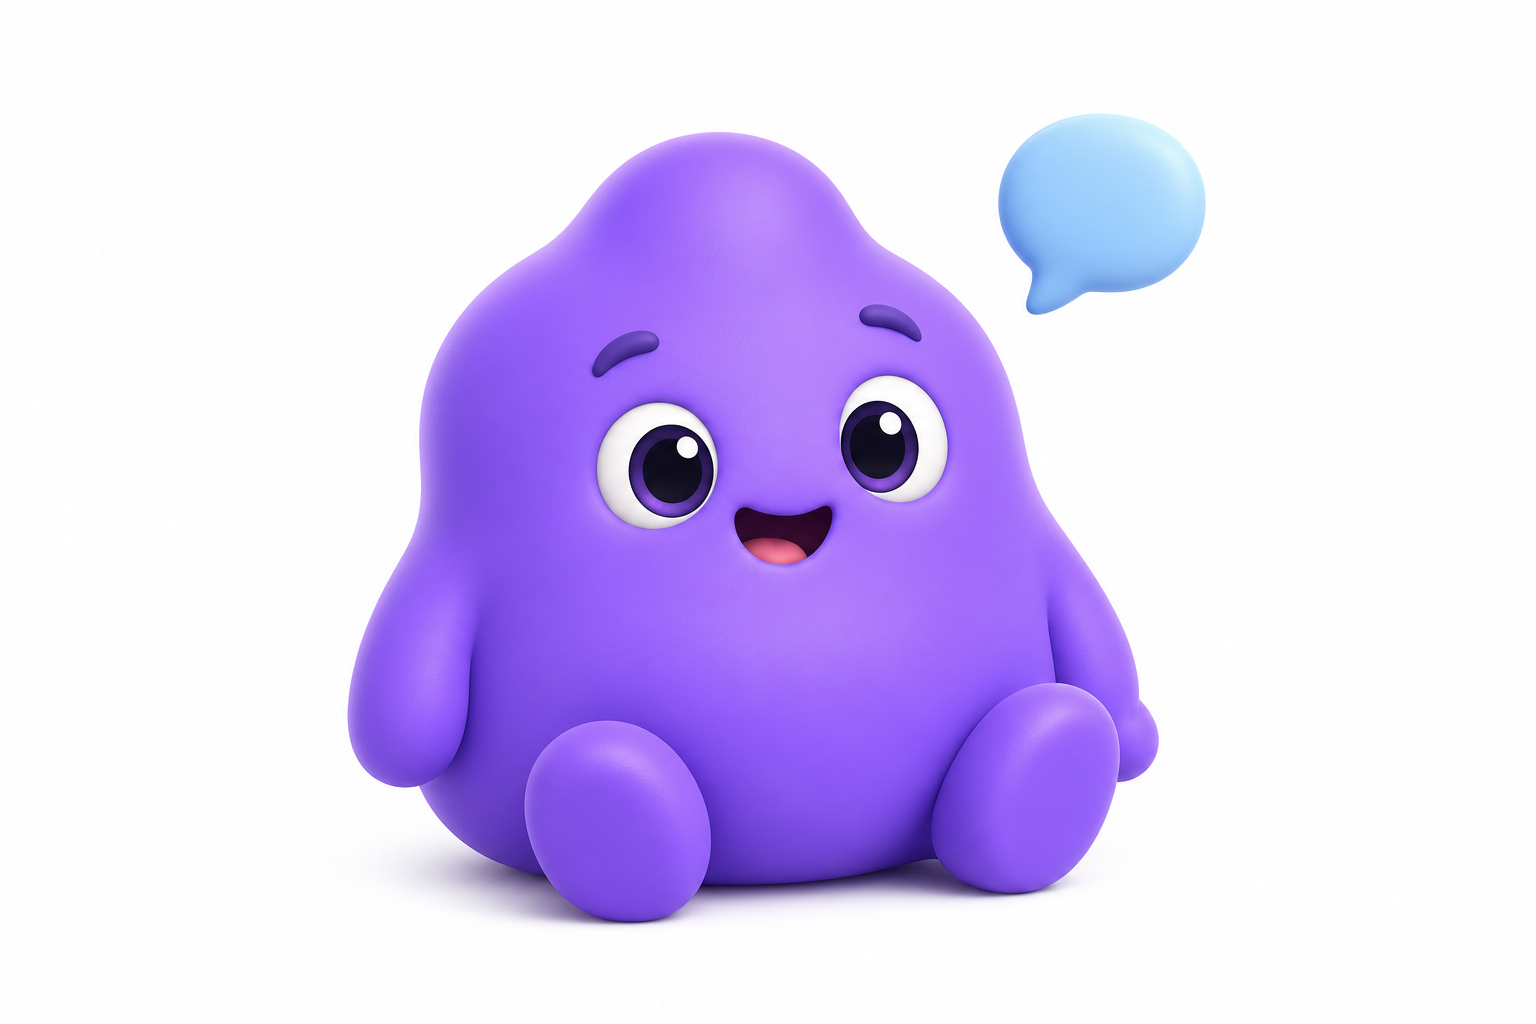
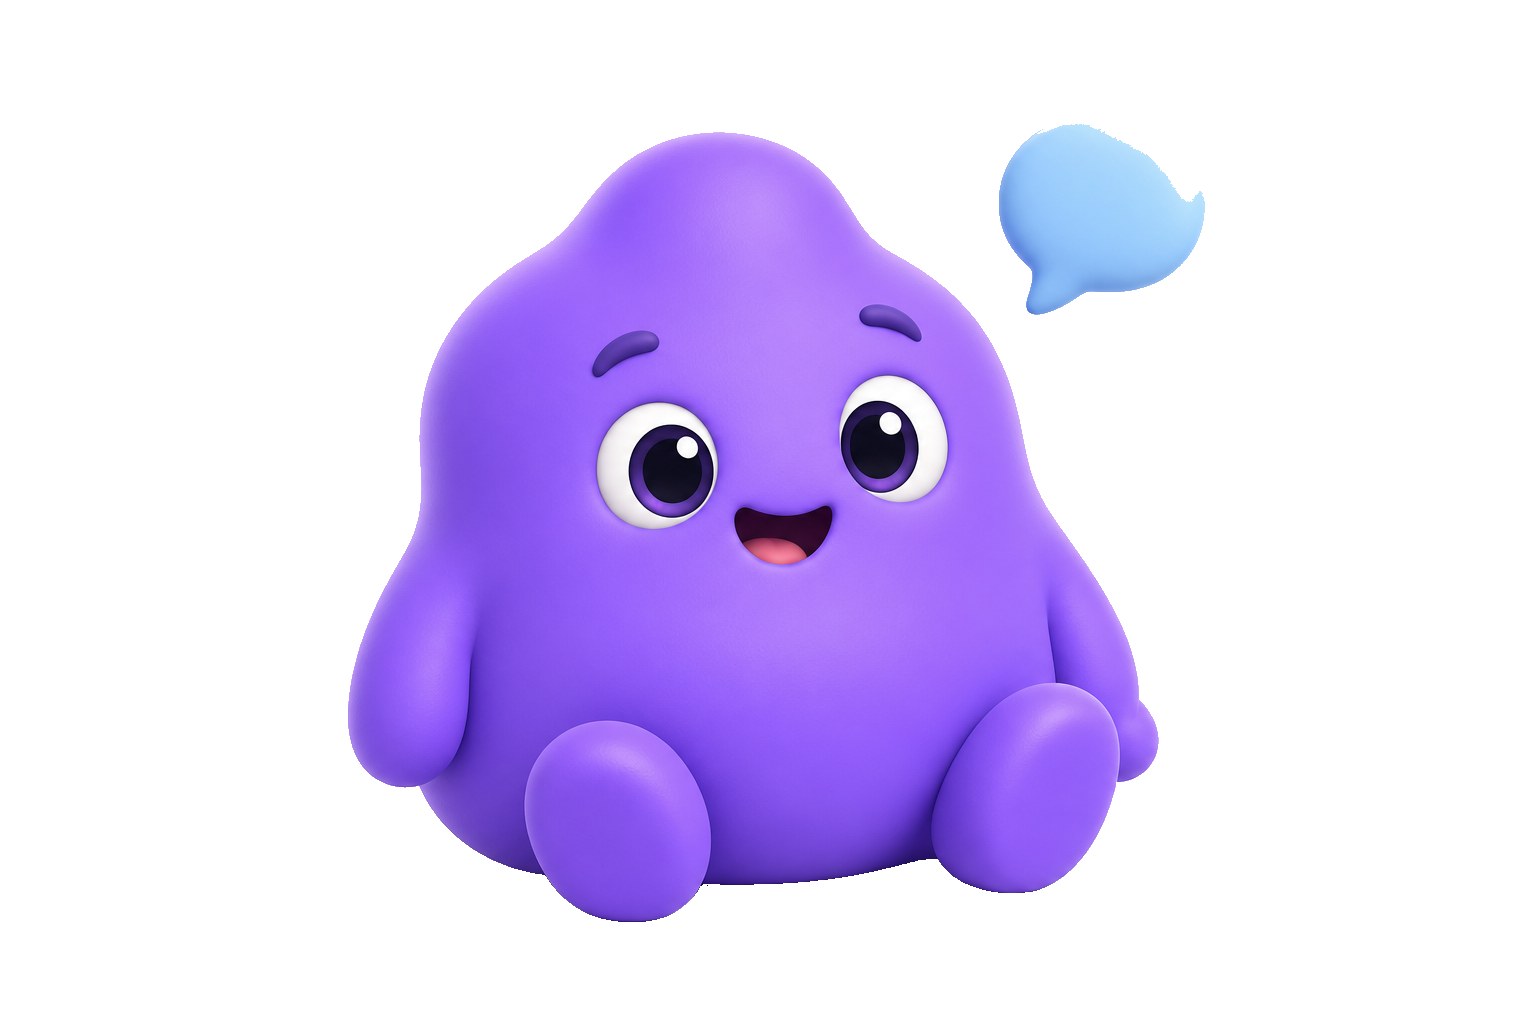
fixes

Changed region(s): [[0.25, 0.8125, 0.7188, 0.9062], [0.6875, 0.0938, 0.7812, 0.1875]]

diff --git a/src/components/onboarding/bobble-mascot.tsx b/src/components/onboarding/bobble-mascot.tsx
@@ -1,12 +1,24 @@
 import { Image, ImageSource, ImageStyle } from 'expo-image';
 import { StyleSheet } from 'react-native';
 
+import { useBobbleColors } from '@/src/hooks/use-bobble-colors';
+import { useColorScheme } from '@/src/hooks/use-color-scheme';
+
 export type MascotVariant = 'splash' | 'sitting' | 'waving';
 
-const MASCOT_SOURCES: Record<MascotVariant, ImageSource> = {
-  splash: require('@/src/assets/images/mascot/mascot-splash.png'),
-  sitting: require('@/src/assets/images/mascot/mascot-sitting.png'),
-  waving: require('@/src/assets/images/mascot/mascot-waving.png'),
+const MASCOT_SOURCES: Record<MascotVariant, { light: ImageSource; dark: ImageSource }> = {
+  splash: {
+    light: require('@/src/assets/images/mascot/mascot-splash.png'),
+    dark: require('@/src/assets/images/mascot/mascot-splash-dark.png'),
+  },
+  sitting: {
+    light: require('@/src/assets/images/mascot/mascot-sitting.png'),
+    dark: require('@/src/assets/images/mascot/mascot-sitting-dark.png'),
+  },
+  waving: {
+    light: require('@/src/assets/images/mascot/mascot-waving.png'),
+    dark: require('@/src/assets/images/mascot/mascot-waving-dark.png'),
+  },
 };
 
 type BobbleMascotProps = {
@@ -16,10 +28,23 @@ type BobbleMascotProps = {
 };
 
 export function BobbleMascot({ variant = 'splash', size = 200, style }: BobbleMascotProps) {
+  const scheme = useColorScheme();
+  const colors = useBobbleColors();
+  const borderRadius = typeof style?.borderRadius === 'number' ? style.borderRadius : 100;
+
   return (
     <Image
-      source={MASCOT_SOURCES[variant]}
-      style={[styles.image, { width: size, height: size,borderRadius:100 }, style]}
+      source={MASCOT_SOURCES[variant][scheme]}
+      style={[
+        styles.image,
+        {
+          width: size,
+          height: size,
+          borderRadius,
+          backgroundColor: colors.background,
+        },
+        style,
+      ]}
       contentFit="cover"
     />
   );

diff --git a/app/(auth)/sign-in.tsx b/app/(auth)/sign-in.tsx
@@ -4,7 +4,7 @@ import { StyleSheet, Text, View } from 'react-native';
 
 import { OnboardingScreenLayout } from '@/src/components/onboarding/onboarding-screen-layout';
 import { SocialButton } from '@/src/components/onboarding/social-button';
-import { BobbleColors } from '@/src/theme/colors';
+import { useBobbleColors } from '@/src/hooks/use-bobble-colors';
 import { Typography } from '@/src/theme/fonts';
 
 const SOCIAL_PROVIDERS = [
@@ -30,6 +30,7 @@ const AUTH_COPY: Record<AuthMode, { title: string; footerPrompt: string; footerA
 };
 
 export default function AuthScreen() {
+  const colors = useBobbleColors();
   const [mode, setMode] = useState<AuthMode>('sign-in');
   const copy = AUTH_COPY[mode];
 
@@ -44,15 +45,15 @@ export default function AuthScreen() {
   return (
     <OnboardingScreenLayout contentStyle={styles.content}>
       <View style={styles.header}>
-        <Text style={styles.title}>{copy.title}</Text>
-        <Text style={styles.subtitle}>
+        <Text style={[styles.title, { color: colors.text }]}>{copy.title}</Text>
+        <Text style={[styles.subtitle, { color: colors.text }]}>
           {mode === 'sign-in' ? (
             <>
-              Let&apos;s <Text style={styles.accent}>unwind</Text> together
+              Let&apos;s <Text style={[styles.accent, { color: colors.textAccent }]}>unwind</Text> together
             </>
           ) : (
             <>
-              Join Bobble and <Text style={styles.accent}>unwind</Text> your mind
+              Join Bobble and <Text style={[styles.accent, { color: colors.textAccent }]}>unwind</Text> your mind
             </>
           )}
         </Text>
@@ -69,18 +70,18 @@ export default function AuthScreen() {
         ))}
 
         <View style={styles.dividerRow}>
-          <View style={styles.dividerLine} />
-          <Text style={styles.dividerText}>or</Text>
-          <View style={styles.dividerLine} />
+          <View style={[styles.dividerLine, { backgroundColor: colors.divider }]} />
+          <Text style={[styles.dividerText, { color: colors.textSecondary }]}>or</Text>
+          <View style={[styles.dividerLine, { backgroundColor: colors.divider }]} />
         </View>
 
         <SocialButton provider="email" label="Continue with Email" onPress={handleAuth} />
       </View>
 
       <View style={styles.footer}>
-        <Text style={styles.footerText}>
+        <Text style={[styles.footerText, { color: colors.textSecondary }]}>
           {copy.footerPrompt}{' '}
-          <Text style={styles.footerLink} onPress={toggleMode}>
+          <Text style={[styles.footerLink, { color: colors.textAccent }]} onPress={toggleMode}>
             {copy.footerAction}
           </Text>
         </Text>
@@ -101,14 +102,11 @@ const styles = StyleSheet.create({
   },
   title: {
     ...Typography.heading,
-    color: BobbleColors.text,
   },
   subtitle: {
     ...Typography.subheading,
-    color: BobbleColors.text,
   },
   accent: {
-    color: BobbleColors.textAccent,
     fontFamily: Typography.subheading.fontFamily,
     fontWeight: '600',
   },
@@ -124,11 +122,9 @@ const styles = StyleSheet.create({
   dividerLine: {
     flex: 1,
     height: 1,
-    backgroundColor: BobbleColors.divider,
   },
   dividerText: {
     ...Typography.divider,
-    color: BobbleColors.textSecondary,
   },
   footer: {
     alignItems: 'center',
@@ -136,11 +132,9 @@ const styles = StyleSheet.create({
   },
   footerText: {
     ...Typography.caption,
-    color: BobbleColors.textSecondary,
   },
   footerLink: {
     ...Typography.caption,
-    color: BobbleColors.textAccent,
     textDecorationLine: 'underline',
     fontWeight: '600',
   },

diff --git a/src/components/onboarding/social-button.tsx b/src/components/onboarding/social-button.tsx
@@ -2,7 +2,7 @@ import { Ionicons } from '@expo/vector-icons';
 import { Pressable, StyleSheet, Text, View } from 'react-native';
 
 import { AppleIcon, FacebookIcon, GoogleIcon, XIcon } from '@/src/components/onboarding/social-icons';
-import { BobbleColors } from '@/src/theme/colors';
+import { useBobbleColors } from '@/src/hooks/use-bobble-colors';
 import { Typography } from '@/src/theme/fonts';
 
 type SocialProvider = 'google' | 'apple' | 'facebook' | 'x' | 'email';
@@ -23,19 +23,28 @@ const SOCIAL_ICON_MAP: Record<Exclude<SocialProvider, 'email'>, () => React.Reac
 };
 
 export function SocialButton({ provider, label, onPress }: SocialButtonProps) {
+  const colors = useBobbleColors();
+
   return (
     <Pressable
       onPress={onPress}
-      style={({ pressed }) => [styles.button, pressed && styles.pressed]}
+      style={({ pressed }) => [
+        styles.button,
+        {
+          backgroundColor: pressed ? colors.borderLight : colors.surface,
+          borderColor: colors.border,
+        },
+        pressed && styles.pressed,
+      ]}
     >
       <View style={styles.icon}>
         {provider === 'email' ? (
-          <Ionicons name="mail-outline" size={ICON_SIZE} color={BobbleColors.text} />
+          <Ionicons name="mail-outline" size={ICON_SIZE} color={colors.text} />
         ) : (
           SOCIAL_ICON_MAP[provider]()
         )}
       </View>
-      <Text style={styles.label}>{label}</Text>
+      <Text style={[styles.label, { color: colors.text }]}>{label}</Text>
     </Pressable>
   );
 }
@@ -45,16 +54,14 @@ const styles = StyleSheet.create({
     flexDirection: 'row',
     alignItems: 'center',
     justifyContent: 'center',
-    backgroundColor: BobbleColors.background,
     borderWidth: 1,
-    borderColor: BobbleColors.border,
     borderRadius: 32,
     paddingVertical: 16,
     paddingHorizontal: 20,
     width: '100%',
   },
   pressed: {
-    backgroundColor: BobbleColors.borderLight,
+    opacity: 0.9,
   },
   icon: {
     position: 'absolute',
@@ -62,6 +69,5 @@ const styles = StyleSheet.create({
   },
   label: {
     ...Typography.socialButton,
-    color: BobbleColors.text,
   },
 });

diff --git a/app/(auth)/onboarding.tsx b/app/(auth)/onboarding.tsx
@@ -6,8 +6,8 @@ import { BobbleMascot, MascotVariant } from '@/src/components/onboarding/bobble-
 import { OnboardingScreenLayout } from '@/src/components/onboarding/onboarding-screen-layout';
 import { PaginationDots } from '@/src/components/onboarding/pagination-dots';
 import { PrimaryButton } from '@/src/components/onboarding/primary-button';
+import { useBobbleColors } from '@/src/hooks/use-bobble-colors';
 import { useAppStore } from '@/src/store/app-store';
-import { BobbleColors } from '@/src/theme/colors';
 import { Typography } from '@/src/theme/fonts';
 import { Ionicons } from '@expo/vector-icons';
 
@@ -41,6 +41,7 @@ const STEPS: {
 export default function OnboardingScreen() {
   const scrollRef = useRef<ScrollView>(null);
   const { width } = useWindowDimensions();
+  const colors = useBobbleColors();
   const [step, setStep] = useState(0);
   const setHasOnboarded = useAppStore((s) => s.setHasOnboarded);
   const current = STEPS[step];
@@ -84,16 +85,16 @@ export default function OnboardingScreen() {
       >
         {STEPS.map((item) => (
           <View key={item.heading} style={[styles.slide, { width}]}>
-            <Text style={styles.heading}>{item.heading}</Text>
+            <Text style={[styles.heading, { color: colors.text }]}>{item.heading}</Text>
 
             {item.features ? (
               <View style={styles.featureList}>
                 {item.features.map((feature) => (
                   <View key={feature} style={styles.featureRow}>
-                    <View style={styles.featureIcon}>
-                      <Ionicons name="checkmark" size={24} color={BobbleColors.success} />
+                    <View style={[styles.featureIcon, { backgroundColor: `${colors.success}30` }]}>
+                      <Ionicons name="checkmark" size={24} color={colors.success} />
                     </View>
-                    <Text style={styles.featureText}>{feature}</Text>
+                    <Text style={[styles.featureText, { color: colors.text }]}>{feature}</Text>
                   </View>
                 ))}
               </View>
@@ -115,7 +116,6 @@ const styles = StyleSheet.create({
   },
   heading: {
     ...Typography.heading,
-    color: BobbleColors.text,
     marginTop: 24,
     width:'90%',
     alignSelf:'center',
@@ -141,13 +141,11 @@ const styles = StyleSheet.create({
   },
   featureText: {
     ...Typography.heading,
-    color: BobbleColors.text,
     fontSize: 22,
     width: '60%',
   },
   featureIcon: {
     borderRadius: 120,
-    backgroundColor: `${BobbleColors.success}30`,
     padding: 8,
   },
   footer: {

diff --git a/app/(auth)/splash.tsx b/app/(auth)/splash.tsx
@@ -5,18 +5,20 @@ import { StyleSheet, Text, View } from 'react-native';
 import { BobbleMascot } from '@/src/components/onboarding/bobble-mascot';
 import { OnboardingScreenLayout } from '@/src/components/onboarding/onboarding-screen-layout';
 import { PrimaryButton } from '@/src/components/onboarding/primary-button';
-import { BobbleColors } from '@/src/theme/colors';
+import { useBobbleColors } from '@/src/hooks/use-bobble-colors';
 import { Typography } from '@/src/theme/fonts';
 
 export default function SplashScreen() {
+  const colors = useBobbleColors();
+
   return (
     <OnboardingScreenLayout
       contentStyle={styles.content}
       footer={<PrimaryButton label="Get Started" onPress={() => router.push('/(auth)/onboarding' as Href)} />}
     >
       <View style={styles.header}>
-        <Text style={styles.title}>Bobble</Text>
-        <Text style={styles.tagline}>unwind a messy mind</Text>
+        <Text style={[styles.title, { color: colors.text }]}>Bobble</Text>
+        <Text style={[styles.tagline, { color: colors.textAccent }]}>unwind a messy mind</Text>
       </View>
       <BobbleMascot variant="splash" size={1000 * 0.4} />
 
@@ -36,13 +38,11 @@ const styles = StyleSheet.create({
   },
   title: {
     ...Typography.splashTitle,
-    color: BobbleColors.text,
     fontSize: 60,
     lineHeight: 66,
     marginBottom: -4,
   },
   tagline: {
     ...Typography.splashTagline,
-    color: BobbleColors.textAccent,
   },
 });